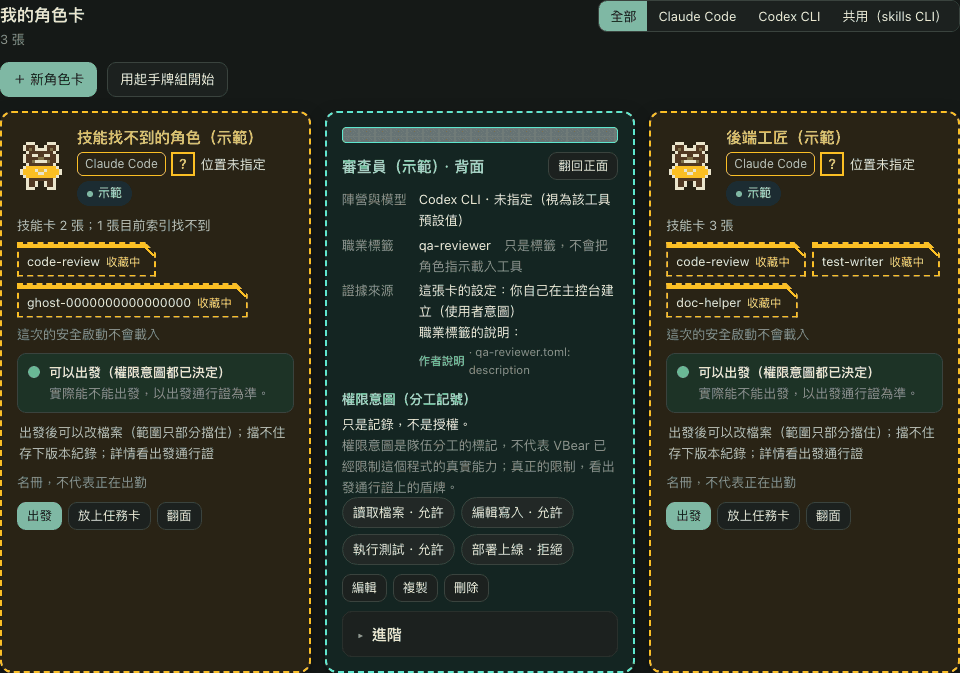
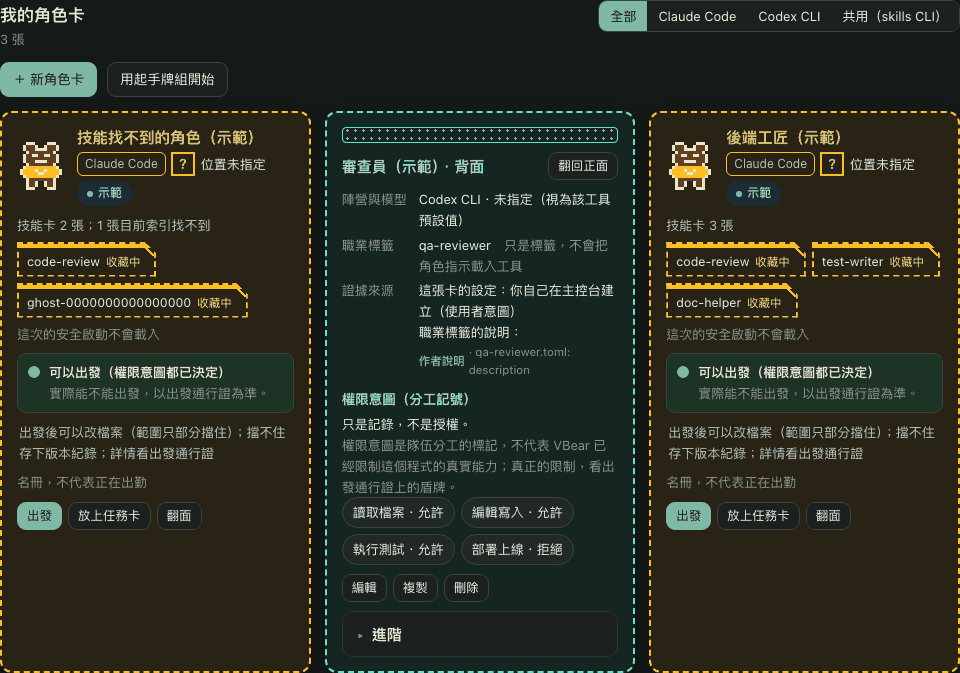
Say v0.8 in the README status lines, retake the two card-back pictures, note the new pattern

Changed region(s): [[0.3438, 0.1872, 0.6562, 0.2184], [0.9062, 0.9985, 0.9375, 1.0], [0.2188, 0.9985, 0.25, 1.0]]

diff --git a/tests/test_readme_images.py b/tests/test_readme_images.py
@@ -85,15 +85,17 @@ class ReadmeImages(unittest.TestCase):
                 self.assertRegex(tag, r'alt="[^"]+"', tag)
                 self.assertRegex(tag, r'width="\d+"', tag)
 
-    def test_stale_sentences_are_gone_and_the_status_says_v07(self):
+    def test_stale_sentences_are_gone_and_the_status_says_v08(self):
         en = (ROOT / "README.md").read_text(encoding="utf-8")
         zh = (ROOT / "README.zh-TW.md").read_text(encoding="utf-8")
         for stale in ("predate the embodied upgrade", "taken before the three-line front", "(v0.3)"):
             self.assertNotIn(stale, en)
         for stale in ("尚未更新至人物化版本", "加上三行正面之前拍的", "（v0.3）"):
             self.assertNotIn(stale, zh)
-        self.assertIn("Status: early (v0.7)", en)
-        self.assertIn("目前狀態：早期版本（v0.7）", zh)
+        self.assertIn("Status: early (v0.8)", en)
+        self.assertIn("目前狀態：早期版本（v0.8）", zh)
+        self.assertNotIn("(v0.7)", en)
+        self.assertNotIn("（v0.7）", zh)
 
     def test_every_caption_says_demo_data(self):
         for name, start, end, mark in (("README.md", "### What it looks like", "## What you can do with it", "demo data"),

diff --git a/CHANGELOG.md b/CHANGELOG.md
@@ -49,6 +49,9 @@ the card's flow waits for you, and three fixed lines; the focus starts on 「取
 - **Docs.** The README screenshots (both languages) were retaken for this state, mostly in the light theme and two in the
   dark theme, with new ones for the workbench task card, a handoff, a terminal just opened, the takeover reminder and the
   skills library.
+- **Card back pattern.** The pattern along the top of a role card's back is now a tidy row of small crosses on a clear
+  ground (「角色卡背面花紋改成整齊的小十字」), where it used to look like noise; it is drawn a little stronger so it still shows on
+  every camp's card in both themes.
 
 
 ## v0.7.0 — card play

diff --git a/README.zh-TW.md b/README.zh-TW.md
@@ -8,7 +8,7 @@ VBear 是跑在你自己 Mac 上的主控台。你用它的角色卡啟動 Claud
 
 [English](README.md) · [架構](docs/ARCHITECTURE.md) · [安全模型](docs/SECURITY-MODEL.md) · [參與貢獻](.github/CONTRIBUTING.md) · [回報資安問題](SECURITY.md)
 
-> **目前狀態：早期版本（v0.7）**，只在 macOS 上由作者本人日常使用與測試。畫面是繁體中文。
+> **目前狀態：早期版本（v0.8）**，只在 macOS 上由作者本人日常使用與測試。畫面是繁體中文。
 > 開始使用前請先看下方「使用前要知道的事」。
 
 ## VBear 是什麼？

diff --git a/README.md b/README.md
@@ -9,7 +9,7 @@ ordinary terminal and is not covered by these protections.)
 
 [繁體中文說明](README.zh-TW.md) · [Architecture](docs/ARCHITECTURE.md) · [Security model](docs/SECURITY-MODEL.md) · [Contributing](.github/CONTRIBUTING.md)
 
-> **Status: early (v0.7).** It is built and used daily by one person on macOS.
+> **Status: early (v0.8).** It is built and used daily by one person on macOS.
 > The interface is in Traditional Chinese (zh-TW).
 > Expect rough edges, and read [Good to know before you start](#good-to-know-before-you-start) before relying on it.
 
